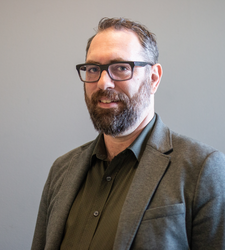
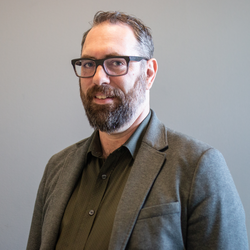
Update Aaron Culich's headshot to perfect 250x250 square following professional guidelines
Applied professional headshot guidelines: (1) Eyes in upper third of frame (2) Adequate headroom (3) Appropriate shoulder visibility (4) Centered balanced composition (5) Exact 250x250 dimensions to match team photos. Created from high-resolution original using center gravity with +650+100 offset and forced resize to 250x250.

diff --git a/index.html b/index.html
@@ -185,7 +185,7 @@ Free for personal and commercial use under the CCA 3.0 license (html5up.net/lice
                 </b></p>
             </li>
             -->
-            <li class="aligncenter"><img src="images/photos/aaronculich_250x250_new.png" width="250" alt="Aaron Culich" />
+            <li class="aligncenter"><img src="images/photos/aaronculich.png" width="250" alt="Aaron Culich" />
                 <p><b><a href="https://www.linkedin.com/in/aaron-culich" target="_blank">Aaron Culich</a><br />
                 Data Science Director<br />
                 UC Berkeley
